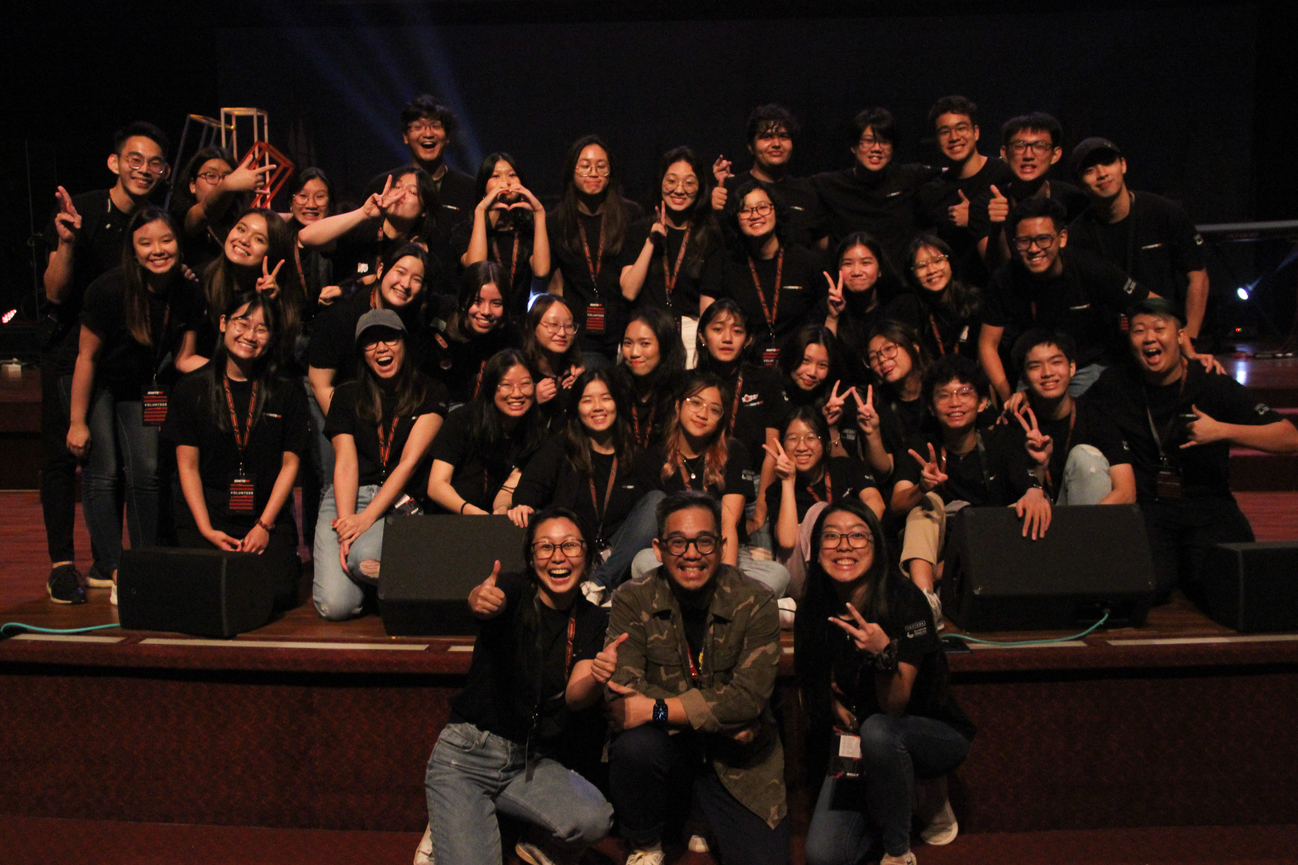
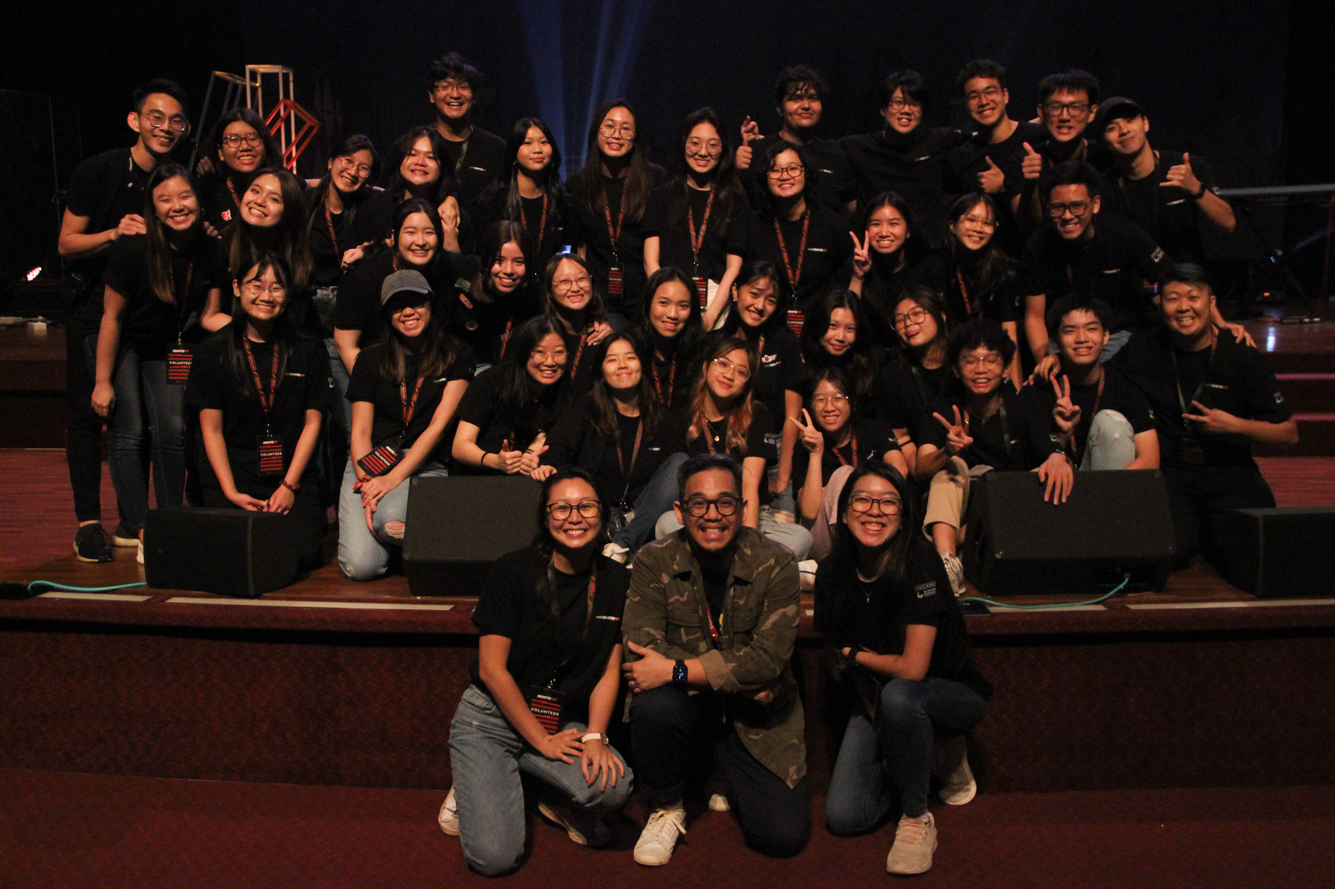
update comm pic

diff --git a/pages/highlights/index.js b/pages/highlights/index.js
@@ -11,6 +11,9 @@ import EventHighlights from './_event-highlights'
 // import CommsTeam from './_comms-team'
 
 const ImageWrapper = styled.div`
+  display: flex;
+  align-items: center; 
+  justify-content: center;
   margin: 0 auto;
   width: 100%;
   max-width: 383px;
@@ -38,8 +41,8 @@ const Highlights = () => {
       <ImageWrapper>
         <Image
           src='/images/jpg/ignite-comm-2023.jpg'
-          width={880}
-          height={550}
+          width={784}
+          height={522}
           alt="group photo"
           loading='lazy'
         />
